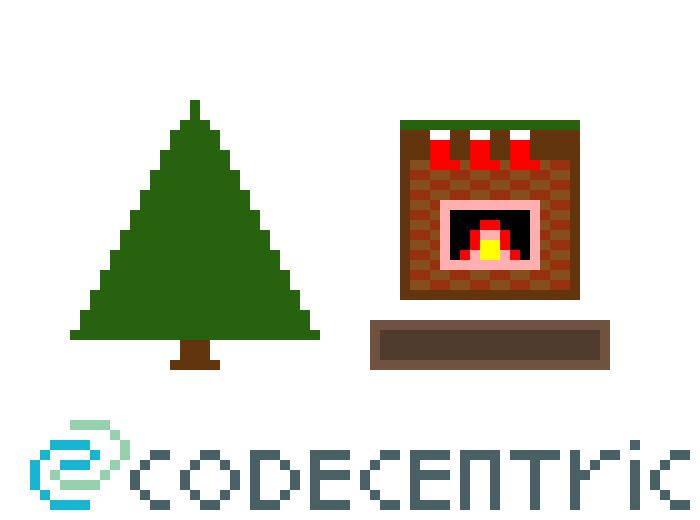
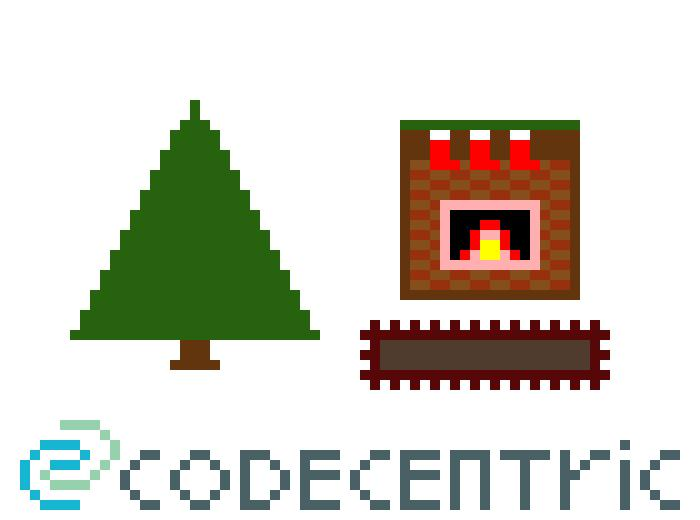
adjust rug

Changed region(s): [[0.03, 0.8, 0.6, 0.9846], [0.51, 0.6154, 0.87, 0.7692], [0.63, 0.8308, 0.99, 0.9846]]

diff --git a/src/main/java/nl/codecentric/xmascodechallenge/domain/Rug.java b/src/main/java/nl/codecentric/xmascodechallenge/domain/Rug.java
@@ -13,9 +13,22 @@ public class Rug {
     private final int y;
 
     public void printRug(Graphics2D g2d){
-        g2d.setColor(Colors.LIGHT_GRAY_BROWN.getColor());
-        g2d.fillRect(x, y, 240, 50);
+        g2d.setColor(Colors.DARK_RED.getColor());
+        for (int xVar = x - 10; xVar < x + 240; xVar = xVar + 10) {
+            for (int yVar = y - 10; yVar < y + 60; yVar = yVar + 10) {
+                System.out.println("" + xVar + "" +yVar);
+                if (g2d.getColor().equals(Colors.DARK_RED.getColor())) {
+                    g2d.setColor(Colors.WHITE.getColor());
+                } else {
+                    g2d.setColor(Colors.DARK_RED.getColor());
+                }
+                g2d.fillRect(xVar, yVar, 10, 10);
+            }
+        }
+        g2d.setColor(Colors.DARK_RED.getColor());
+        g2d.fillRect(x, y, 230, 50);
         g2d.setColor(Colors.DARK_GRAY_BROWN.getColor());
-        g2d.fillRect(x+10,  y+10, 220, 30);
+        g2d.fillRect(x+10,  y+10, 210, 30);
+
     }
 }

diff --git a/src/main/java/nl/codecentric/xmascodechallenge/services/ChristmasImageService.java b/src/main/java/nl/codecentric/xmascodechallenge/services/ChristmasImageService.java
@@ -55,7 +55,7 @@ public class ChristmasImageService {
     }
 
     private void setRug(Graphics2D g2d) {
-        Rug rug = new Rug(370, 320);
+        Rug rug = new Rug(370, 330);
         rug.printRug(g2d);
     }
 
@@ -85,7 +85,7 @@ public class ChristmasImageService {
     }
 
     private void setLogo(Graphics2D g2d) {
-        Logo logo = new Logo(50, 440);
+        Logo logo = new Logo(40, 440);
         logo.printLogo(g2d);
     }
 

diff --git a/src/main/java/nl/codecentric/xmascodechallenge/shared/Colors.java b/src/main/java/nl/codecentric/xmascodechallenge/shared/Colors.java
@@ -10,6 +10,8 @@ public enum Colors {
     BROWN(new Color(99, 53, 14)),
     LIGHT_BROWN(new Color(134, 77, 29)),
     RED_BROWN(new Color(151, 49, 13)),
+    DARK_RED(new Color(87, 7, 7)),
+    WHITE(new Color(255, 255, 255)),
     DARK_GREEN(new Color(39, 99, 14)),
     LIGHT_GRAY_BROWN(new Color(111, 82, 64)),
     DARK_GRAY_BROWN(new Color(80, 60, 46)),
